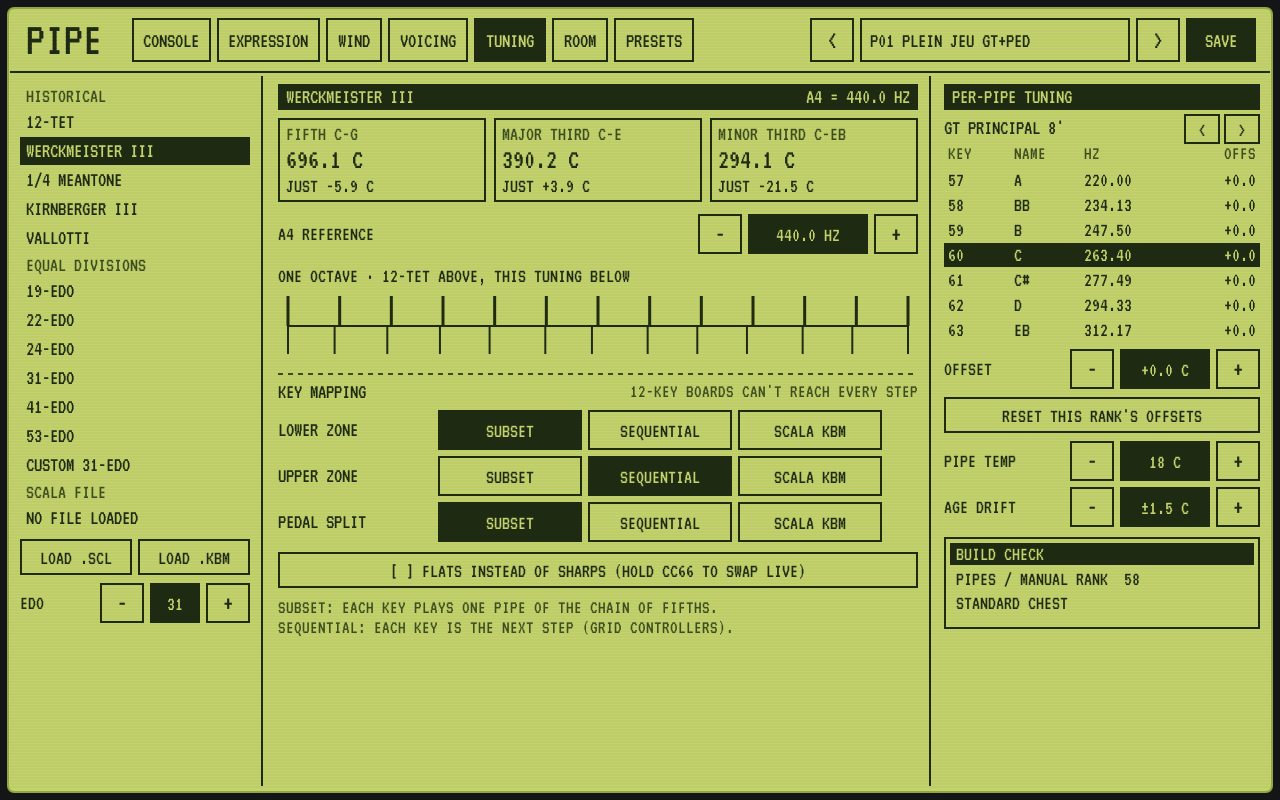
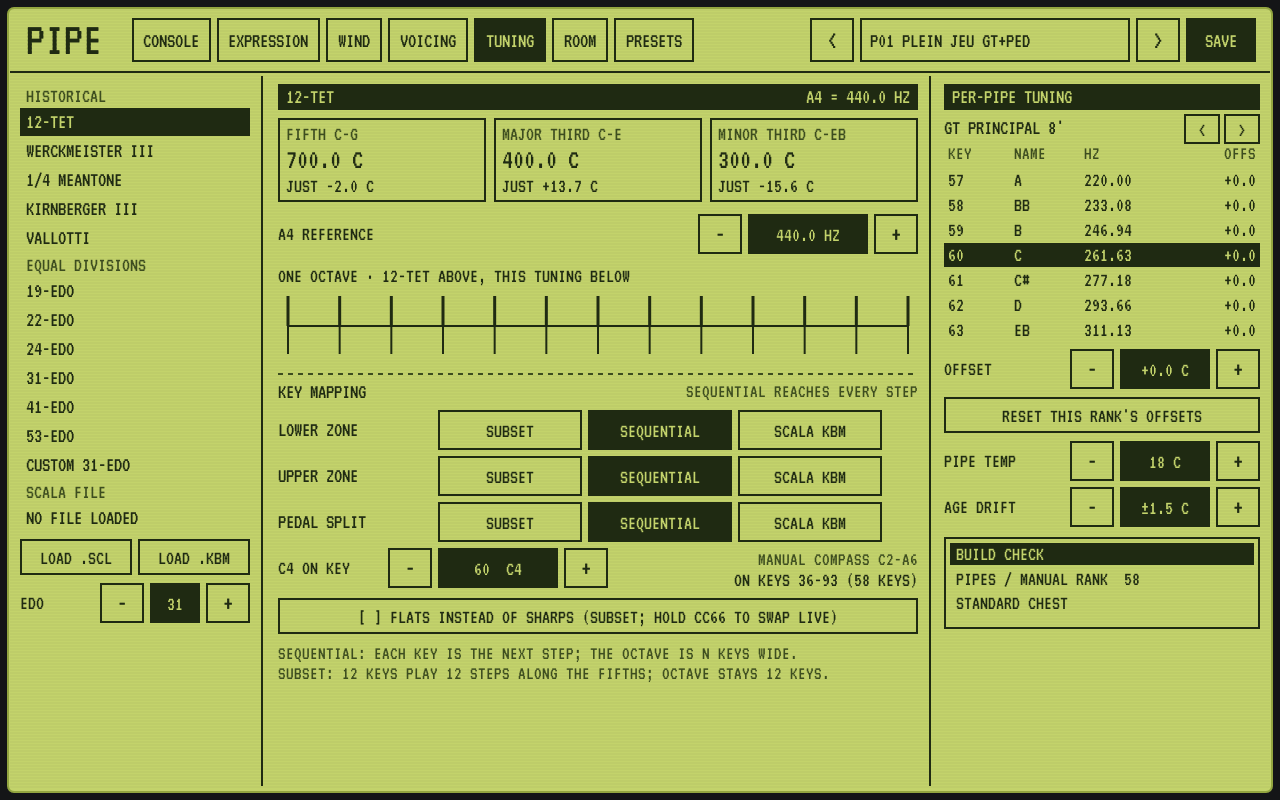
EDOs play every step by default; choose the key for middle C (v0.2.4)
Choosing an EDO left the lower zone, the pedal (and so a plain or MPE
keyboard) on the SUBSET map: the octave stayed 12 keys wide and only 12 of
the division's notes could be played.

- SEQUENTIAL is the default map for every zone: each key is the next step,
  the octave is n keys wide. SUBSET remains available.
- New parameter "Key For Middle C" (anchor_key, default 60) sets which key
  plays C4 in sequential maps and linear Scala scales. Added after the last
  input parameter so existing parameter numbers do not move.
- EDOs whose fifth cannot generate 12 different notes (5, 6, 10, 14, 15,
  20, 21, 25, 28, 30, 35-EDO, ...) used to put several keys on one pitch in
  SUBSET; they now always play sequential and the button shows SUBSET N/A.
- Voicing was looked up by MIDI key number; under a sequential map that gave
  a key the voicing of a pipe at another pitch. It now follows the pitch.
- Remembered tuning trims are forgotten when the keys start playing other
  pipes (tuning, EDO size, anchor, map or spelling changed).
- Tuning screen: C4 ON KEY stepper and which keys cover the C2-A6 compass
  (or how many keys it would need); interval boxes show the division's own
  nearest steps; the voicing screen shows the pitch of the compass slot.
- 19- and 31-EDO factory presets use the sequential map.

Tests: pipes_test plays each EDO with no map setting touched (every key of
an octave for 10, 19 and 31; samples for 17, 22, 24, 41, 53, 72), moves the
[…]

diff --git a/docs/manual/manual.html b/docs/manual/manual.html
@@ -367,10 +367,12 @@ code { font-family: "DejaVu Sans Mono", monospace; font-size: 8.6pt; background:
   <h2>Key mapping</h2>
   <p>A normal keyboard has 12 keys per octave, but 31-EDO has 31 notes, so Pipe needs to know how to lay them out. You set this separately for each zone and the pedal:</p>
   <ul>
-    <li><span class="ui">SUBSET</span>: each key plays the closest sensible note, so a normal keyboard plays “normally” in the new tuning. Tick <span class="ui">FLATS INSTEAD OF SHARPS</span>, or hold the sostenuto pedal (CC66), to switch black keys between, say, C♯ and D♭.</li>
-    <li><span class="ui">SEQUENTIAL</span>: each key plays the next step up. This is ideal for grid controllers like the Exquis, which can reach every note.</li>
-    <li><span class="ui">SCALA KBM</span>: the loaded keyboard map decides.</li>
+    <li><span class="ui">SEQUENTIAL</span> (the default): each key plays the next step up, so you can reach every note of the tuning. The octave is as many keys wide as the tuning has steps: 19 keys in 19-EDO, 31 keys in 31-EDO. This is also what grid controllers like the Exquis expect.</li>
+    <li><span class="ui">SUBSET</span>: the 12 keys of each octave play 12 of the tuning's notes, chosen along the circle of fifths, so the octave stays 12 keys wide and familiar fingering still works, but the other notes are out of reach. Tick <span class="ui">FLATS INSTEAD OF SHARPS</span>, or hold the sostenuto pedal (CC66), to switch black keys between, say, C♯ and D♭. Some divisions (5, 10, 15 and 20-EDO, for example) have no 12-note subset; for those the button shows <span class="ui">SUBSET N/A</span> and the keys stay sequential.</li>
+    <li><span class="ui">SCALA KBM</span>: the loaded keyboard map decides (Scala tunings only).</li>
   </ul>
+  <p><span class="ui">C4 ON KEY</span> chooses which key plays middle C when the keys are sequential; it starts on middle C itself. Because a whole octave now takes more keys, your keyboard covers fewer octaves: next to it, Pipe shows which keys cover the organ's manual compass (C2 to A6). Move middle C, or your keyboard's octave setting, to reach the part of the compass you want.</p>
+  <p>A project or preset saved with an earlier version of Pipe keeps the key mapping it was saved with, which was <span class="ui">SUBSET</span> for the lower zone. Choose <span class="ui">SEQUENTIAL</span> once on the Tuning screen and save again.</p>
 
   <h2>Tuning single pipes</h2>
   <p>On the right, pick a rank with the arrows and a key from the list, then use <span class="ui">OFFSET</span> to raise or lower that one pipe in cents (hundredths of a semitone). <span class="ui">PIPE TEMP</span> sets the temperature of the building: flue pipes go sharp as a church warms up, while reed pipes barely move, so a warm church puts the two slightly out of tune with each other, just as in real life. <span class="ui">AGE DRIFT</span> adds the small random mistuning of an organ that hasn't been tuned for a while. Set it to 0 for perfection.</p>

diff --git a/plugin/PipeUI.cpp b/plugin/PipeUI.cpp
@@ -93,7 +93,7 @@ protected:
         if (index >= (uint32_t)kNumParams) return;
         if (index < (uint32_t)kOutFirst && pv[index] != value && !loading) dirty = true;
         pv[index] = value;
-        if (index == kParamTuning || index == kParamEdoN || index == kParamARef) syncTuning();
+        if (index == kParamTuning || index == kParamEdoN || index == kParamARef || index == kParamAnchorKey) syncTuning();
         if (index < (uint32_t)kOutFirst || screen == kScrConsole || screen == kScrWind || screen == kScrExpression || screen == kScrRoom)
             repaint();
     }
@@ -385,7 +385,7 @@ private:
         pv[id] = v;
         setParameterValue((uint32_t)id, v);
         if (!loading) dirty = true;
-        if (id == kParamTuning || id == kParamEdoN || id == kParamARef) syncTuning();
+        if (id == kParamTuning || id == kParamEdoN || id == kParamARef || id == kParamAnchorKey) syncTuning();
     }
     void toggle(int id) { editParameter((uint32_t)id, true); setParam(id, pv[id] >= 0.5f ? 0.f : 1.f); editParameter((uint32_t)id, false); }
     void nudge(int id, float step)
@@ -406,6 +406,7 @@ private:
     {
         tuning.system = (int)pv[kParamTuning];
         tuning.customN = (int)pv[kParamEdoN];
+        tuning.anchor = (int)pv[kParamAnchorKey];
         tuning.aRef = pv[kParamARef];
         parseScl(st[kStateScalaScl], tuning.scl);
         tuning.kbm = ScalaKbm();
@@ -920,8 +921,8 @@ private:
         const int d = kRanks[selRank].division;
         const int lo = d == kPedal ? kPedalLow : kManualLow, hi = d == kPedal ? kPedalHigh : kManualHigh;
         selKey = std::max(lo, std::min(hi, selKey));
-        const KeyPitch kp = tuning.keyPitch(selKey, (int)pv[kParamMapLo], on(kParamEnharmonic));
-        const double f = kp.hz * rankRatio(selRank, selKey);
+        // voicing is set per place in the compass (a 12-TET pitch slot), whatever the keys are mapped to
+        const double f = 440.0 * std::pow(2.0, (selKey - 69) / 12.0) * rankRatio(selRank, selKey);
         titleBar(x, top, w, std::string(kRanks[selRank].name) + "  " + noteName12(lo) + "-" + noteName12(hi), std::string("KEY ") + noteName12(selKey) + fmt("  %.1f HZ", f));
         text(x, top + 44, "REGULATION PER KEY (CLICK TO SELECT)", 20);
         text(x + w, top + 44, "DB", 20, ink2, ALIGN_RIGHT | ALIGN_MIDDLE);
@@ -1077,7 +1078,8 @@ private:
         const double step = tuning.stepCents();
         titleBar(x, top, w, std::string(kTuningLabels[(int)pv[kParamTuning]]) + (tuning.isEdo() ? fmt("  STEP %.2f C", step) : std::string()),
                  fmt("A4 = %.1f HZ", pv[kParamARef]));
-        // intervals: measured from C4 using the subset mapping
+        // intervals of the tuning itself: for an EDO the step nearest each just interval
+        // (whatever the keys are mapped to), otherwise the notes C-G, C-E, C-Eb
         const KeyPitch c4 = tuning.keyPitch(60, kMapSubset, false);
         struct Iv { const char* name; int key; double just; };
         const Iv ivs[3] = { { "FIFTH C-G", 67, 701.955 }, { "MAJOR THIRD C-E", 64, 386.314 }, { "MINOR THIRD C-EB", 63, 315.641 } };
@@ -1085,8 +1087,13 @@ private:
         {
             const float bx = x + i * 216, by = top + 34;
             frame(bx, by, 208, 84);
-            const KeyPitch k2 = tuning.keyPitch(ivs[i].key, kMapSubset, false);
-            const double c = 1200.0 * std::log2(k2.hz / c4.hz);
+            double c;
+            if (tuning.isEdo())
+            {
+                const int n = tuning.edoN();
+                c = 1200.0 * std::lround(n * ivs[i].just / 1200.0) / n;
+            }
+            else c = 1200.0 * std::log2(tuning.keyPitch(ivs[i].key, kMapSubset, false).hz / c4.hz);
             text(bx + 8, by + 16, ivs[i].name, 20, ink2);
             text(bx + 8, by + 42, fmt("%.1f C", c), 28);
             text(bx + 8, by + 68, fmt("JUST %+.1f C", c - ivs[i].just), 20);
@@ -1117,7 +1124,9 @@ private:
         // key mapping
         hline(x, ry, w, true);
         text(x, ry + 18, "KEY MAPPING", 21);
-        text(x + w, ry + 18, "12-KEY BOARDS CAN'T REACH EVERY STEP", 19, ink2, ALIGN_RIGHT | ALIGN_MIDDLE);
+        const bool subsetOk = Tuning::subsetUsable(tuning.edoN());
+        text(x + w, ry + 18, tuning.isEdo() && !subsetOk ? fmt("%.0f-EDO HAS NO 12-NOTE SUBSET", (double)tuning.edoN()) : std::string("SEQUENTIAL REACHES EVERY STEP"),
+             19, ink2, ALIGN_RIGHT | ALIGN_MIDDLE);
         ry += 36;
         const int maps[3] = { kParamMapLo, kParamMapHi, kParamMapPed };
         static const char* mapNames[3] = { "LOWER ZONE", "UPPER ZONE", "PEDAL SPLIT" };
@@ -1127,13 +1136,42 @@ private:
             for (int i = 0; i < 3; ++i)
             {
                 const int p = maps[m];
-                button(x + 160 + i * 150, ry, 144, 40, kMapLabels[i], (int)pv[p] == i, [this, p, i] { setParam(p, (float)i); }, 20);
+                // what the zone really plays: an EDO without a 12-note subset is always sequential
+                const int eff = tuning.effectiveMap((int)pv[p]);
+                if (i == kMapSubset && tuning.isEdo() && !subsetOk)
+                {
+                    frame(x + 160 + i * 150, ry, 144, 40);
+                    text(x + 160 + i * 150 + 72, ry + 21, "SUBSET N/A", 20, ink2, ALIGN_CENTER | ALIGN_MIDDLE);
+                    continue;
+                }
+                button(x + 160 + i * 150, ry, 144, 40, kMapLabels[i], eff == i || (!tuning.isEdo() && (int)pv[p] == i), [this, p, i] { setParam(p, (float)i); }, 20);
             }
             ry += 46;
         }
-        button(x, ry + 4, w, 36, std::string(on(kParamEnharmonic) ? "[X]" : "[ ]") + " FLATS INSTEAD OF SHARPS (HOLD CC66 TO SWAP LIVE)", false, [this] { toggle(kParamEnharmonic); }, 20);
-        text(x, ry + 60, "SUBSET: EACH KEY PLAYS ONE PIPE OF THE CHAIN OF FIFTHS.", 19, ink2);
-        text(x, ry + 80, "SEQUENTIAL: EACH KEY IS THE NEXT STEP (GRID CONTROLLERS).", 19, ink2);
+        {
+            // which key plays middle C, and which keys then cover the organ's compass
+            const int a = (int)pv[kParamAnchorKey];
+            stepper(x, ry, 330, "C4 ON KEY", fmt("%.0f  ", (double)a) + noteName12(a),
+                    [this] { nudge(kParamAnchorKey, -1); }, [this] { nudge(kParamAnchorKey, 1); }, 120);
+            int lo = -1, hi = -1;
+            for (int k = 0; k < 128; ++k)
+            {
+                const KeyPitch q = tuning.keyPitch(k, (int)pv[kParamMapLo], false);
+                if (q.valid && q.keyFloat >= kManualLow - 0.5f && q.keyFloat <= kManualHigh + 0.5f) { if (lo < 0) lo = k; hi = k; }
+            }
+            text(x + w, ry + 12, "MANUAL COMPASS C2-A6", 19, ink2, ALIGN_RIGHT | ALIGN_MIDDLE);
+            // how many keys the whole compass needs; more than MIDI has means some of it is always out of reach
+            const int need = tuning.pipesInRange(440.0 * std::pow(2.0, (kManualLow - 69) / 12.0), 440.0 * std::pow(2.0, (kManualHigh - 69) / 12.0));
+            std::string reach;
+            if (lo < 0) reach = "OUT OF REACH";
+            else if (hi - lo + 1 < need) reach = fmt("NEEDS %.0f KEYS; ", (double)need) + fmt("KEYS %.0f-", (double)lo) + fmt("%.0f REACH PART", (double)hi);
+            else reach = fmt("ON KEYS %.0f-", (double)lo) + fmt("%.0f", (double)hi) + fmt(" (%.0f KEYS)", (double)need);
+            text(x + w, ry + 32, reach, 20, ink, ALIGN_RIGHT | ALIGN_MIDDLE);
+            ry += 46;
+        }
+        button(x, ry + 4, w, 36, std::string(on(kParamEnharmonic) ? "[X]" : "[ ]") + " FLATS INSTEAD OF SHARPS (SUBSET; HOLD CC66 TO SWAP LIVE)", false, [this] { toggle(kParamEnharmonic); }, 20);
+        text(x, ry + 60, "SEQUENTIAL: EACH KEY IS THE NEXT STEP; THE OCTAVE IS N KEYS WIDE.", 19, ink2);
+        text(x, ry + 80, "SUBSET: 12 KEYS PLAY 12 STEPS ALONG THE FIFTHS; OCTAVE STAYS 12 KEYS.", 19, ink2);
         vline(930, 76, kH - 90);
 
         // per-pipe tuning
@@ -1173,7 +1211,8 @@ private:
         paramStepper(px, ty, pw, "PIPE TEMP", kParamPipeTemp, 1.f, "%.0f C", 1.f, 90); ty += 46;
         paramStepper(px, ty, pw, "AGE DRIFT", kParamAgeDrift, 0.5f, "±%.1f C", 1.f, 90); ty += 50;
         // build check
-        const double flo = tuning.keyPitch(kManualLow, kMapSubset, false).hz, fhi = tuning.keyPitch(kManualHigh, kMapSubset, false).hz;
+        // the compass is fixed in pitch (C2-A6), whatever the keys are mapped to
+        const double flo = 440.0 * std::pow(2.0, (kManualLow - 69) / 12.0), fhi = 440.0 * std::pow(2.0, (kManualHigh - 69) / 12.0);
         const int pipes = tuning.pipesInRange(flo, fhi);
         frame(px, ty, pw, 92);
         fill(px + 6, ty + 6, pw - 12, 22, ink);

diff --git a/tests/pipes_test.cpp b/tests/pipes_test.cpp
@@ -216,26 +216,47 @@ static void tuningSystems() {
         }
         check(worst <= 2.0, "%s: all twelve notes within 2 cents (worst %.2f)", ref.name, worst);
     }
-    // equal divisions: the keys run through the steps one after another on the upper zone map
-    static const struct { int sys, n; } edos[] = { { kTun19, 19 }, { kTun22, 22 }, { kTun24, 24 }, { kTun31, 31 }, { kTun41, 41 }, { kTun53, 53 } };
+    // Equal divisions, as shipped: no key-map setting is touched, so this is what a
+    // player gets by choosing the tuning. Each key must be the next step, and the
+    // octave must be n keys wide (not 12).
+    static const struct { int sys, n; } edos[] = { { kTun19, 19 }, { kTun22, 22 }, { kTun24, 24 }, { kTun31, 31 }, { kTun41, 41 }, { kTun53, 53 },
+                                                  { kTunCustomEdo, 17 }, { kTunCustomEdo, 10 }, { kTunCustomEdo, 72 } };
     for (const auto& e : edos) {
         g.reset(); g.draw(principal); g.en->setParameter(kParamTuning, (float)e.sys);
-        g.en->setParameter(kParamMapLo, (float)kMapSequential);
+        if (e.sys == kTunCustomEdo) g.en->setParameter(kParamEdoN, (float)e.n);
         g.run(0.05);
-        // key 60 is C; the step that serves as A (three fifths up) sits on 440 Hz
+        // middle C (key 60) plays C4; the step that serves as A (three fifths up) sits on 440 Hz
         const int fifth = (int)std::lround(e.n * std::log2(1.5));
         const int aStep = ((3 * fifth) % e.n + e.n) % e.n;
+        auto expect = [&](int key, int anchor) { return 440.0 * std::pow(2.0, (double)(key - anchor - aStep) / e.n); };
+        // every key of one octave for the divisions people play most, a sample for the rest
+        std::vector<int> keys;
+        if (e.n == 19 || e.n == 31 || e.n == 10) for (int k = 60; k <= 60 + e.n; ++k) keys.push_back(k);
+        else if (60 + e.n <= 127) keys = { 48, 60, 61, 62, 60 + aStep, 60 + e.n - 1, 60 + e.n };
+        else keys = { 127 - e.n, 128 - e.n, 59, 60, 61, 62, 127 };      // MIDI's 128 keys: the octave ends on key 127
         double worst = 0;
-        for (int key : { 48, 60, 61, 62, 60 + aStep, 60 + e.n > kManualHigh ? 72 : 60 + e.n, 84 }) {
-            const double expect = 440.0 * std::pow(2.0, (double)(key - 60 - aStep) / e.n);
-            worst = std::max(worst, std::fabs(play(key, expect)));
+        for (int key : keys) {
+            const double c = play(key, expect(key, 60));
+            if (std::getenv("PIPE_TEST_VERBOSE") && std::fabs(c) > 2) std::printf("      key %d (%.1f Hz): %+.2f\n", key, expect(key, 60), c);
+            worst = std::max(worst, std::fabs(c));
         }
-        check(worst <= 2.0, "%d-EDO, keys in step order: within 2 cents (worst %.2f)", e.n, worst);
-        // on the 12-key subset map a fifth on the keyboard is the division's own fifth
+        check(worst <= 2.0, "%d-EDO as shipped: %d keys from middle C, each the next step, octave %d keys wide (worst %.2f ct)",
+              e.n, (int)keys.size(), e.n, worst);
+        // the anchor moves where C4 sits
+        g.en->setParameter(kParamAnchorKey, 48.f);
+        const double w = std::max(std::fabs(play(48, expect(48, 48))), std::fabs(play(49, expect(49, 48))));
+        check(w <= 2.0, "%d-EDO, C4 on key 48: key 48 plays C4, key 49 the step above (worst %.2f ct)", e.n, w);
+        g.en->setParameter(kParamAnchorKey, 60.f);
+        // the 12-key subset, when asked for: a fifth on the keyboard is the division's own fifth.
+        // Divisions whose fifth cannot generate 12 notes stay sequential.
         g.en->setParameter(kParamMapLo, (float)kMapSubset);
-        const double a = 440.0, eAbove = 440.0 * std::pow(2.0, (double)fifth / e.n);
-        const double w = std::max(std::fabs(play(69, a)), std::fabs(play(76, eAbove)));
-        check(w <= 2.0, "%d-EDO, 12-key subset: a' = 440 and the fifth above it (worst %.2f)", e.n, w);
+        if (Tuning::subsetUsable(e.n)) {
+            const double ws = std::max(std::fabs(play(69, 440.0)), std::fabs(play(76, 440.0 * std::pow(2.0, (double)fifth / e.n))));
+            check(ws <= 2.0, "%d-EDO, 12-key subset chosen: a' = 440 and the fifth above it (worst %.2f ct)", e.n, ws);
+        } else {
+            const double ws = std::max(std::fabs(play(61, expect(61, 60))), std::fabs(play(62, expect(62, 60))));
+            check(ws <= 2.0, "%d-EDO has no 12-note subset: subset chosen still plays every step (worst %.2f ct)", e.n, ws);
+        }
     }
     // a' reference, one pipe's own offset, and the tuning changing under a held key
     g.reset(); g.draw(principal); g.en->setParameter(kParamARef, 415.f); g.run(0.05);

diff --git a/src/engine/Tuning.hpp b/src/engine/Tuning.hpp
@@ -95,6 +95,7 @@ class Tuning {
 public:
     int system = kTun31;
     int customN = 31;
+    int anchor = 60;            // SEQUENTIAL (and linear Scala): the key that plays C4
     double aRef = 440.0;
 
     ScalaScale scl;
@@ -125,6 +126,27 @@ public:
         }
     }
     bool isEdo() const { return edoN() > 0; }
+
+    // SUBSET picks the 12 keys' notes along the chain of fifths. That only gives
+    // 12 different notes when the division's fifth generates them: in 5-, 10-,
+    // 15-, 20-EDO and others, several keys would land on one pitch. Those
+    // divisions are played SEQUENTIAL instead.
+    static bool subsetUsable(int n) {
+        if (n <= 0) return true;
+        const int F = fifthSteps(n);
+        bool seen[128] = {};
+        int distinct = 0;
+        for (int pc = 0; pc < 12; ++pc) { const int s = ((fifthPos(pc, false) * F) % n + n) % n; if (!seen[s]) { seen[s] = true; ++distinct; } }
+        return distinct == 12;
+    }
+    // the map a zone actually plays with this tuning
+    int effectiveMap(int mapMode) const {
+        if (system == kTunScala) return mapMode;
+        const int n = edoN();
+        if (n <= 0) return mapMode;                         // 12-note temperaments: every map is the same
+        if (mapMode == kMapSubset && subsetUsable(n)) return kMapSubset;
+        return kMapSequential;                              // a .kbm only applies to a Scala scale
+    }
 
     // Steps of the best fifth in n-EDO
     static int fifthSteps(int n) { return (int)std::lround(n * std::log2(1.5)); }
@@ -161,8 +183,8 @@ public:
         const double C4 = c4();
         if (system == kTunScala && scl.valid()) return scalaPitch(key, mapMode);
         if (n > 0) {
-            if (mapMode == kMapSequential) {
-                int step = key - 60;
+            if (effectiveMap(mapMode) == kMapSequential) {
+                int step = key - anchor;
                 kp.hz = C4 * std::pow(2.0, (double)step / n);
                 int oct = (int)std::floor((double)step / n);
                 int s = step - oct * n;
@@ -254,8 +276,8 @@ private:
             kp.hz = kbm.refFreq * std::pow(2.0, (degreeCents(degree) - degreeCents(refDegree)) / 1200.0);
             kp.pipeIndex = degree + 4 * deg + 64;
         } else {
-            // linear: middle C (60) = degree 0 at C4 scaled by A reference
-            int degree = key - 60;
+            // linear: the anchor key = degree 0 at C4 scaled by A reference
+            int degree = key - anchor;
             kp.hz = c4() * std::pow(2.0, degreeCents(degree) / 1200.0);
             kp.pipeIndex = degree + 4 * deg + 64;
         }

diff --git a/src/engine/Params.hpp b/src/engine/Params.hpp
@@ -53,6 +53,7 @@ enum ParamId {
     kParamRoom, kParamDistance, kParamMicHeight, kParamWidth, kParamRoomMix, kParamPreDelay,
     kParamOutputGain, kParamMicType, kParamQuality, kParamLimiter, kParamIrTrim, kParamIrOrder,
     kParamZoneLoDiv, kParamZoneHiDiv, kParamPedalSplit,
+    kParamAnchorKey,                 // sequential map: the key that plays C4 (added last so older parameter numbers stay put)
     // ---- outputs (DSP -> UI meters) ----
     kOutFirst,
     kOutReservoir = kOutFirst, kOutChestPd, kOutChestGt, kOutChestSw, kOutDemand, kOutPipes, kOutCpu,
@@ -112,9 +113,10 @@ inline const ParamInfo& paramInfo(int id) {
         set(kParamTuning,      { "tuning", "Tuning System", 0.f, (float)(kNumTuningSystems - 1), (float)kTun12, kPEnum, "", kNumTuningSystems, kTuningLabels });
         set(kParamEdoN,        { "edo_n", "Custom EDO Steps", 5.f, 72.f, 31.f, kPInt, "", 0, nullptr });
         set(kParamARef,        { "a_ref", "A4 Reference", 400.f, 480.f, 440.f, kPFloat, "Hz", 0, nullptr });
-        set(kParamMapLo,       { "map_lo", "Key Map Lower Zone", 0.f, 2.f, 0.f, kPEnum, "", 3, kMapLabels });
+        set(kParamMapLo,       { "map_lo", "Key Map Lower Zone", 0.f, 2.f, 1.f, kPEnum, "", 3, kMapLabels });
         set(kParamMapHi,       { "map_hi", "Key Map Upper Zone", 0.f, 2.f, 1.f, kPEnum, "", 3, kMapLabels });
-        set(kParamMapPed,      { "map_ped", "Key Map Pedal Split", 0.f, 2.f, 0.f, kPEnum, "", 3, kMapLabels });
+        set(kParamAnchorKey,   { "anchor_key", "Key For Middle C", 0.f, 127.f, 60.f, kPInt, "", 0, nullptr });
+        set(kParamMapPed,      { "map_ped", "Key Map Pedal Split", 0.f, 2.f, 1.f, kPEnum, "", 3, kMapLabels });
         set(kParamEnharmonic,  { "enharmonic", "Flats Instead Of Sharps", 0.f, 1.f, 0.f, kPBool, "", 0, nullptr });
         set(kParamPipeTemp,    { "pipe_temp", "Pipe Temperature", 5.f, 35.f, 18.f, kPFloat, "C", 0, nullptr });
         set(kParamAgeDrift,    { "age_drift", "Age Drift", 0.f, 10.f, 1.5f, kPFloat, "ct", 0, nullptr });

diff --git a/tests/clap_mpe_test.cpp b/tests/clap_mpe_test.cpp
@@ -186,8 +186,19 @@ int main(int argc, char** argv) {
         f = pitch(60, 250, 275); check(std::fabs(f - 263.18) < 0.3, "meantone: c' sounds at 263.18 Hz (Hz)", f);
         s.param("A4 Reference", 415.0); s.param("Tuning System", 0); s.play(0.05);
         f = pitch(69, 400, 470); check(std::fabs(f - 415.0) < 0.3, "a' = 415: a' sounds at 415 Hz (Hz)", f);
-        s.param("A4 Reference", 440.0); s.param("Tuning System", 8); s.play(0.05);     // 31-EDO on the 12-key subset
-        f = pitch(64, 310, 345); check(std::fabs(f - 440.0 * std::pow(2.0, -13.0 / 31.0)) < 0.35, "31-EDO: e' is 13 steps below a' (Hz)", f);
+        // 31-EDO with no key-map setting touched: each key is the next step and the octave is
+        // 31 keys wide. a' is step 23 above middle C, so middle C sounds 440 * 2^(-23/31).
+        s.param("A4 Reference", 440.0); s.param("Tuning System", 8); s.play(0.05);
+        const double c31 = 440.0 * std::pow(2.0, -23.0 / 31.0);
+        f = pitch(60, 240, 285); check(std::fabs(f - c31) < 0.3, "31-EDO as shipped: middle C sounds C4 (Hz)", f);
+        const double f61 = pitch(61, 240, 285);
+        check(std::fabs(1200 * std::log2(f61 / f) - 1200.0 / 31) < 2.0, "31-EDO as shipped: the next key is one step (38.7 cents) up (cents)", 1200 * std::log2(f61 / f));
+        const double f72 = pitch(72, 300, 420);
+        check(std::fabs(f72 - c31 * std::pow(2.0, 12.0 / 31.0)) < 0.4, "31-EDO as shipped: key 72 is 12 steps up, not an octave (Hz)", f72);
+        const double f91 = pitch(91, 500, 560);
+        check(std::fabs(f91 - 2 * c31) < 0.5, "31-EDO as shipped: the octave is 31 keys wide (Hz)", f91);
+        s.param("Key For Middle C", 48); s.play(0.05);
+        f = pitch(48, 240, 285); check(std::fabs(f - c31) < 0.3, "31-EDO, C4 moved to key 48: key 48 sounds C4 (Hz)", f);
     }
     printf("%s\n", failures ? "CLAP MPE FAILURES" : "CLAP MPE CHECKS PASSED");
     return failures ? 1 : 0;

diff --git a/src/engine/Engine.hpp b/src/engine/Engine.hpp
@@ -144,6 +144,11 @@ public:
         if (id < 0 || id >= kOutFirst) return;
         const float old = params[id];
         params[id] = v;
+        // A key's remembered tuning trim belongs to the pipe it played; once the keys
+        // play other pipes, the trims are learnt again.
+        if (v != old && (id == kParamTuning || id == kParamEdoN || id == kParamAnchorKey || id == kParamMapLo
+                         || id == kParamMapHi || id == kParamMapPed || id == kParamEnharmonic))
+            std::memset(trimValid, 0, sizeof(trimValid));
         if (id < kNumStops) {
             if ((old >= 0.5f) != (v >= 0.5f)) stopChanged(id, v >= 0.5f);
             if (kStops[id].type == kStopTremulant) wind.tremOn = v >= 0.5f;
@@ -456,7 +461,8 @@ private:
         v.rank = rank; v.division = d; v.key = key; v.freq = (float)f;
         v.age = ++ageCounter;
 
-        const int k = std::max(0, std::min(kNumKeys - 1, key));
+        // voicing belongs to a place in the compass, i.e. to the pitch the key plays, not to the key number
+        const int k = std::max(0, std::min(kNumKeys - 1, (int)std::lround(p.pitch.keyFloat)));
         const PipeGeometry g = pipeGeometry(*voicing, rank, k, f);
         v.voicedRatio = (float)(g.toeMM / kChestNominal[d]);
         v.flowWeight = (float)g.flowWeight;
@@ -911,6 +917,7 @@ private:
         case kParamBlowerOn: wind.blowerOn = v >= 0.5f; break;
         case kParamTuning: tuning.system = (int)v; break;
         case kParamEdoN: tuning.customN = (int)v; break;
+        case kParamAnchorKey: tuning.anchor = (int)v; break;
         case kParamARef: tuning.aRef = v; break;
         case kParamRoom: room.room = (int)v; room.configure(); break;
         case kParamDistance: room.distance = v; room.configure(); break;

diff --git a/src/engine/Presets.hpp b/src/engine/Presets.hpp
@@ -32,7 +32,7 @@ inline int paramGroup(int id) {
     case kParamReleaseMs: case kParamBendStopped: case kParamBendOpen: case kParamBendString:
     case kParamBendReed: return kGroupExpression;
     case kParamTuning: case kParamEdoN: case kParamARef: case kParamMapLo: case kParamMapHi: case kParamMapPed:
-    case kParamEnharmonic: case kParamPipeTemp: case kParamAgeDrift: return kGroupTuning;
+    case kParamAnchorKey: case kParamEnharmonic: case kParamPipeTemp: case kParamAgeDrift: return kGroupTuning;
     case kParamRoom: case kParamDistance: case kParamMicHeight: case kParamWidth: case kParamRoomMix: case kParamPreDelay:
     case kParamOutputGain: case kParamMicType: case kParamQuality: case kParamLimiter: case kParamIrTrim: case kParamIrOrder: return kGroupRoom;
     case kParamZoneLoDiv: case kParamZoneHiDiv: case kParamPedalSplit: return kGroupRouting;
@@ -181,10 +181,10 @@ inline PresetData factoryPreset(int index) {
         set(kParamTuning, kTun12); set(kParamSwell, 1.f); break;
     case 8:
         on({ "gt_principal", "gt_octave", "gt_quinte", "gt_superoct", "pd_subbass", "pd_octavbass", "cp_gt_pd" });
-        set(kParamTuning, kTun31); set(kParamMapLo, kMapSubset); set(kParamMapHi, kMapSequential); break;
+        set(kParamTuning, kTun31); set(kParamMapLo, kMapSequential); set(kParamMapHi, kMapSequential); break;
     case 9:
         on({ "gt_rohrflote", "sw_gedackt", "pd_subbass" });
-        set(kParamTuning, kTun19); set(kParamMapLo, kMapSubset); set(kParamMapHi, kMapSequential); break;
+        set(kParamTuning, kTun19); set(kParamMapLo, kMapSequential); set(kParamMapHi, kMapSequential); break;
     case 10:
         on({ "gt_rohrflote", "sw_flute" });
         set(kParamTuning, kTun12); set(kParamPressMax, 130.f);

diff --git a/README.md b/README.md
@@ -99,9 +99,11 @@ The convolution adds no latency. It runs on a background thread, so changing roo
 
 There are three key mappings, set per zone:
 
-- **Subset:** each key plays one pitch of the chain of fifths. Hold CC66, or tick *flats instead of sharps*, to swap C♯/D♭ and the other pairs.
-- **Sequential:** each key plays the next step, which suits grid controllers.
-- **Scala KBM:** the loaded keyboard map decides.
+- **Sequential** (default): each key plays the next step, so every note of an EDO is reachable and the octave is *n* keys wide. *C4 on key* (parameter `anchor_key`, default 60) chooses which key plays middle C; the Tuning screen shows which keys then cover the manual compass.
+- **Subset:** each key plays one pitch of the chain of fifths, keeping a 12-key octave. Hold CC66, or tick *flats instead of sharps*, to swap C♯/D♭ and the other pairs. EDOs whose fifth cannot generate 12 different notes (5, 6, 10, 14, 15, 20, 21, 25, 28, 30, 35-EDO, ...) have no subset and play sequential.
+- **Scala KBM:** the loaded keyboard map decides (Scala tunings only).
+
+Voicing is set per place in the compass, so a key always gets the voicing of the pitch it plays, whatever the mapping.
 
 Every pipe can be retuned individually in cents. Pipe temperature (flue pipes go sharp as they warm; reeds barely move) and a random age drift are also available. Mutations and mixture ranks are tuned pure against their key, as on real organs.
 
